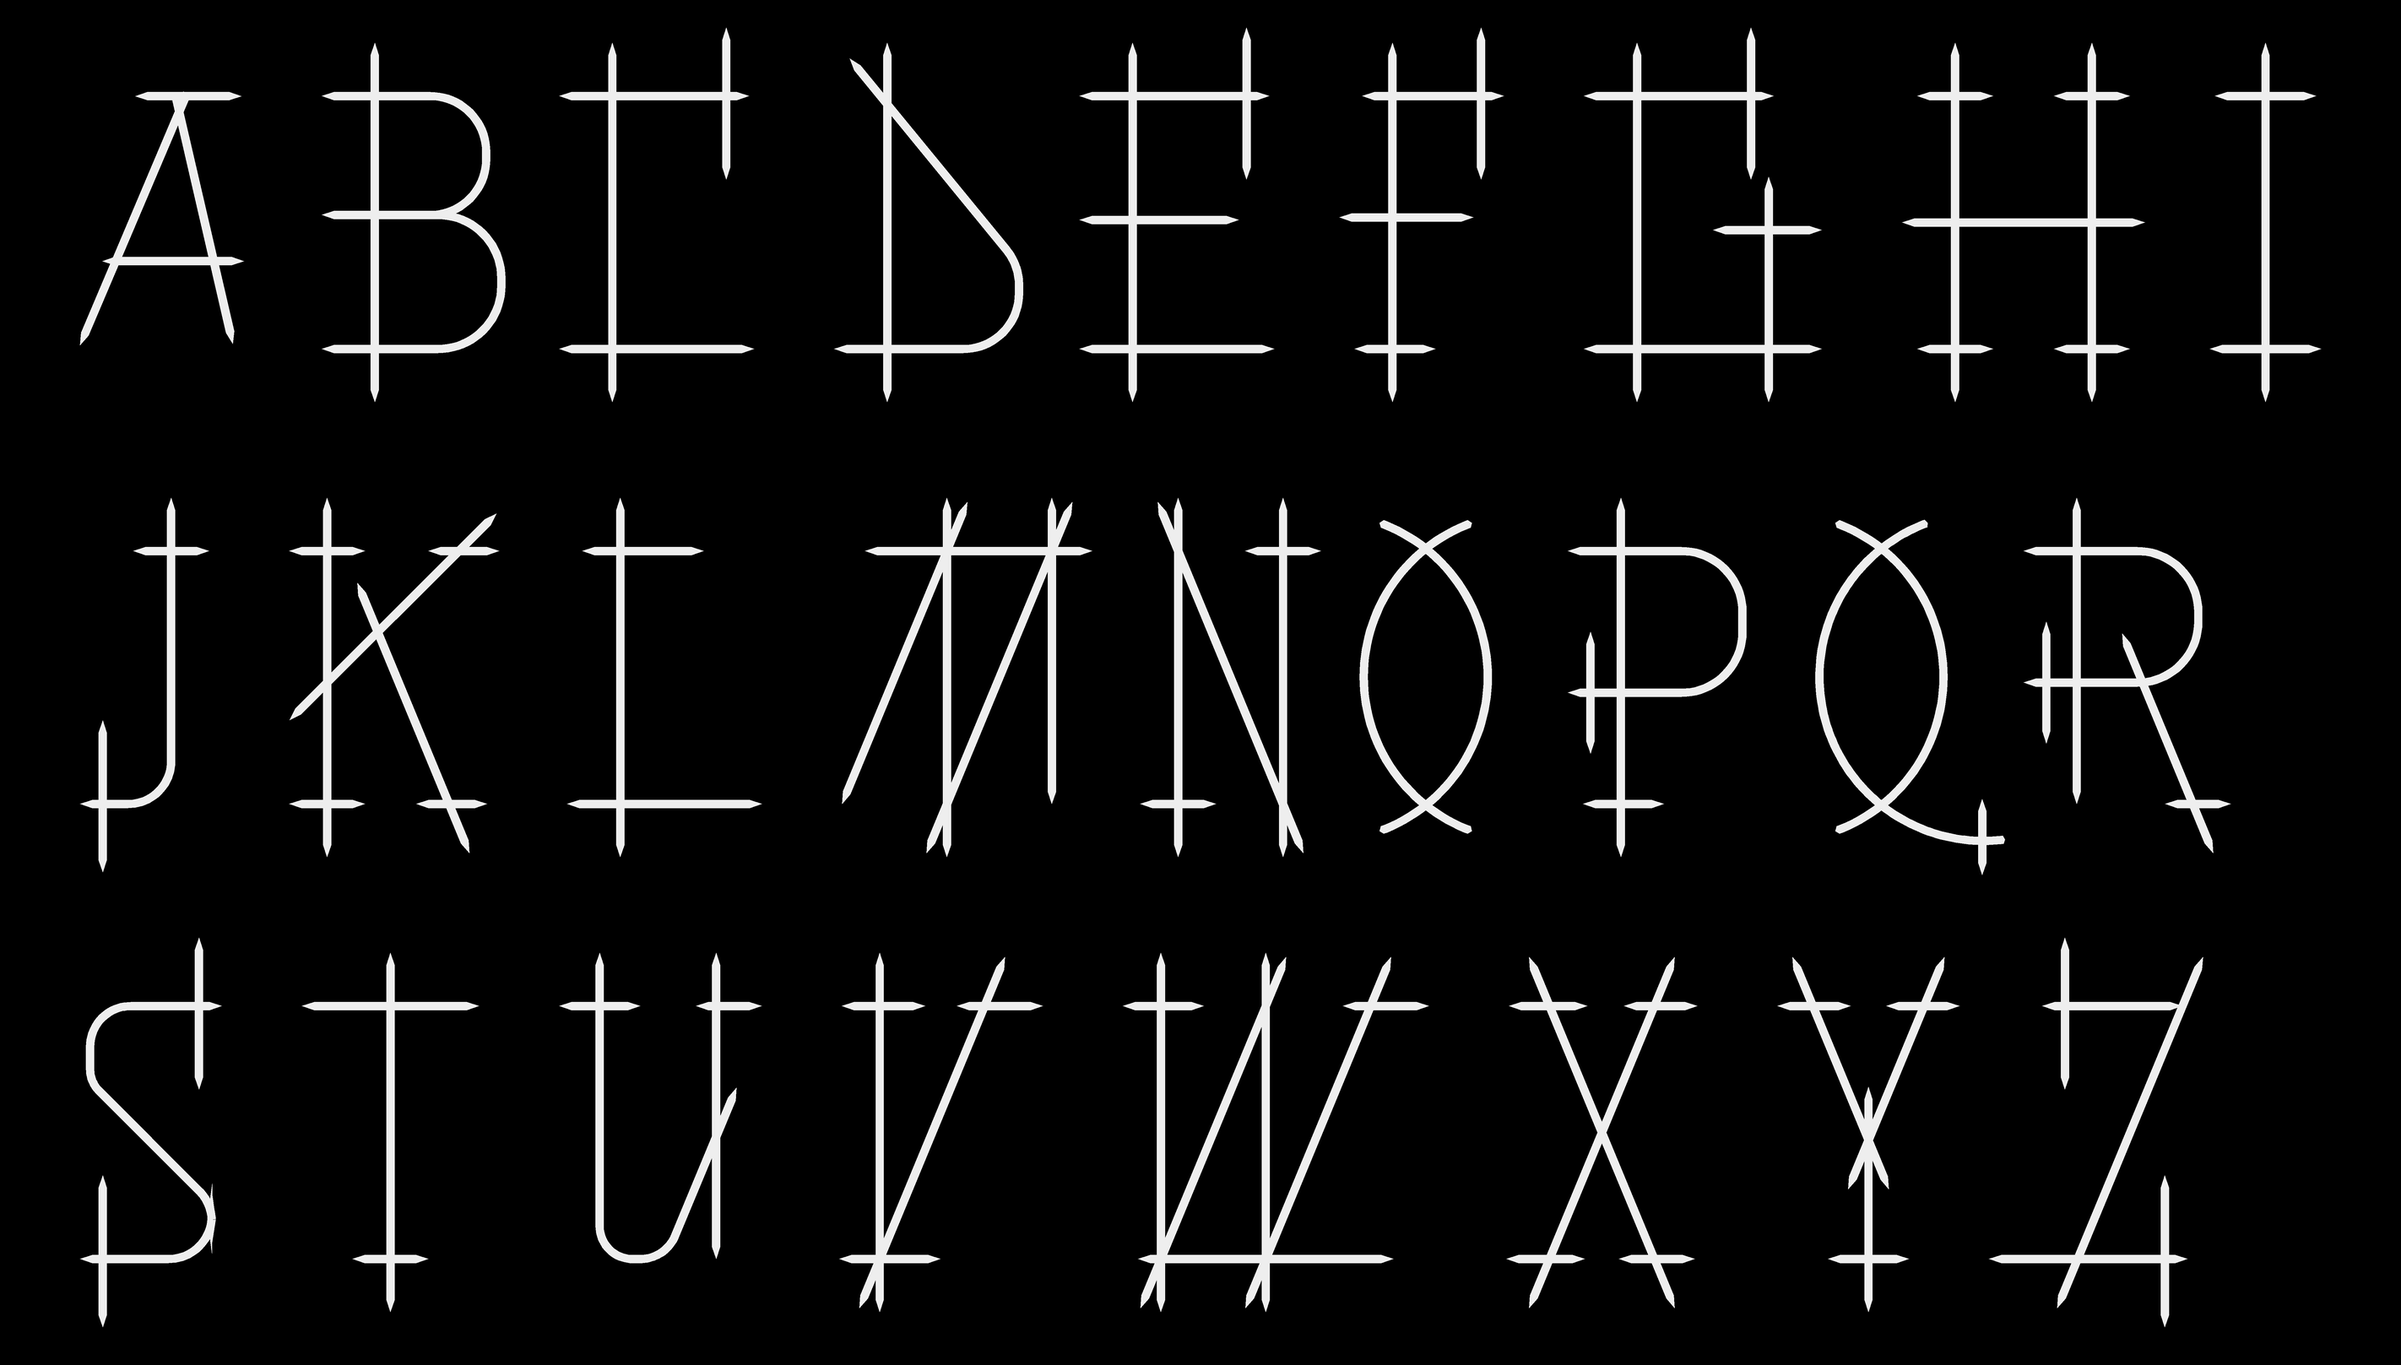
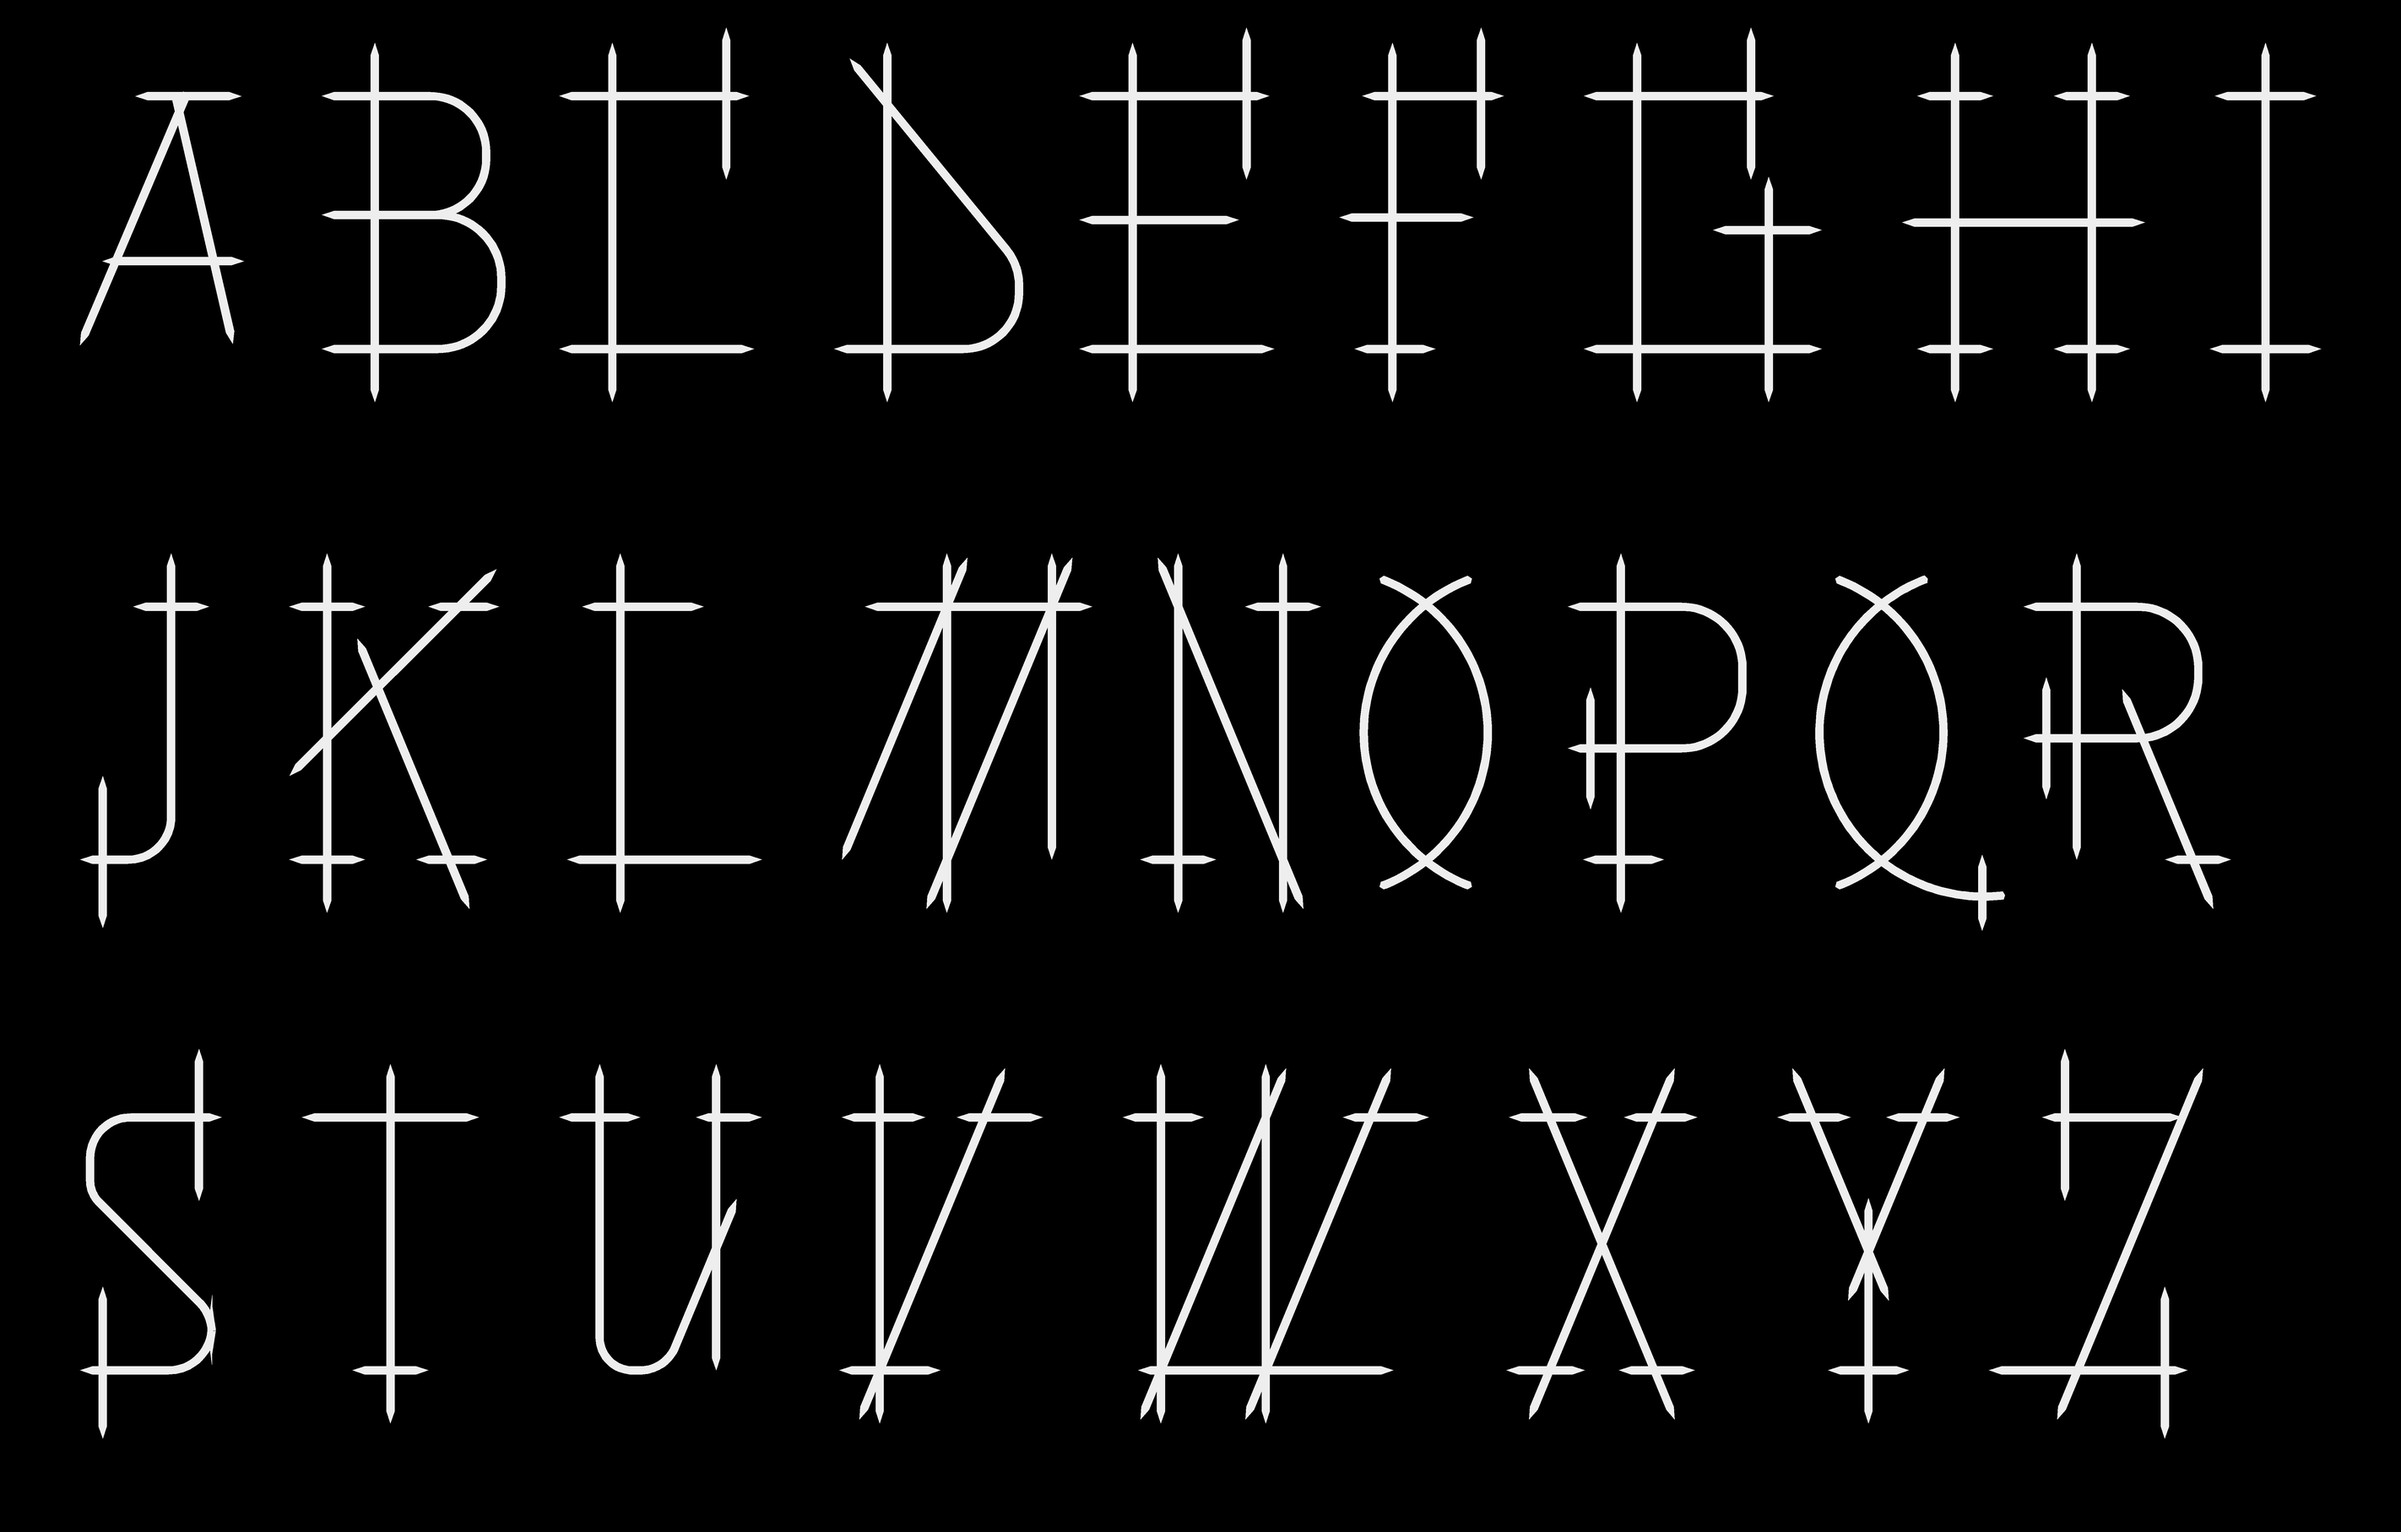
Fûstard 132 : minuscules a–z

diff --git a/fustard-132/fustard.py b/fustard-132/fustard.py
@@ -192,8 +192,99 @@ def build(ov=70.0):
               croix_bas(w67 + 160 - 30 * f, 0)]
     return G
 
+XH, ASC, DESC = 600.0, 1000.0, -380.0   # hauteur des minuscules, montantes, descendantes
+
+def build_lc(ov):
+    """Minuscules. ov : dépassement des croisements (en proportion de la hauteur des minuscules)."""
+    f = ov / 70.0
+    X, A, D = XH, ASC, DESC
+    def croix_haut(x, y):
+        return S((x, y + 90 * f), (x, y - 110 * f))
+    def croix_bas(x, y):
+        return S((x, y + 110 * f), (x, y - 90 * f))
+    def diag(x0, y0, x1, y1, a=True, b=True):
+        u = np.array([x1 - x0, y1 - y0], float); u /= np.linalg.norm(u)
+        p = np.array([x0, y0]) - (u * ov if a else 0)
+        q = np.array([x1, y1]) + (u * ov if b else 0)
+        return S(tuple(p), tuple(q))
+    def croix_point(x, y, s=70):     # le point du i et du j est une croix
+        return [S((x, y + s), (x, y - s)), S((x - s, y), (x + s, y))]
+    w = X / T67
+    L = {}
+    L['a'] = [S((360, X + ov), (360, -ov)),
+              S((40, X), (360 + ov, X)), croix_haut(40 + 30 * f, X),
+              S((360 + ov, 320), (0, 320, 150), (0, 0, 150), (360 + ov, 0))]
+    L['b'] = [S((0, A + ov), (0, -ov)), S((-150, A), (150, A)),
+              S((-ov, X), (420, X, 200), (420, 0, 200), (-ov, 0))]
+    L['c'] = [S((0, X + ov), (0, -ov)),
+              S((-ov, X), (400, X)), croix_haut(400 - 30 * f, X),
+              S((-ov, 0), (420, 0))]
+    L['d'] = [S((420, A + ov), (420, -ov)), S((270, A), (570, A)),
+              S((420 + ov, X), (0, X, 200), (0, 0, 200), (420 + ov, 0))]
+    # e : un seul trait, arrondi en haut, coin vif en bas à gauche, barre qui traverse à gauche
+    L['e'] = [S((-ov, 300), (420, 300), (420, X, 150), (0, X, 150), (0, 0), (440, 0)),
+              croix_bas(440 - 30 * f, 0)]
+    L['f'] = [S((120, A + ov), (120, -ov)),
+              S((120 - ov, A), (440, A)), croix_haut(440 - 30 * f, A),
+              S((-30, X), (320, X)),
+              S((-30, 0), (290, 0))]
+    L['g'] = [S((420, X + ov), (420, D, 150), (0, D)), croix_bas(30 * f, D),
+              S((420 + ov, X), (0, X, 200), (0, 0, 200), (420 + ov, 0))]
+    L['h'] = [S((0, A + ov), (0, 0)), S((-150, A), (150, A)),
+              S((-ov, X), (420, X, 200), (420, 0))]
+    L['i'] = [S((0, X + ov), (0, -ov)), S((-150, X), (150, X)), S((-150, 0), (150, 0))] + \
+             croix_point(0, X + ov + 160)
+    L['j'] = [S((300, X + ov), (300, D, 150), (0, D)), croix_bas(30 * f, D),
+              S((150, X), (450, X))] + croix_point(300, X + ov + 160)
+    xk = 150 + 400 / T67
+    L['k'] = [S((0, A + ov), (0, -ov)), S((-150, A), (150, A)), S((-150, 0), (150, 0)),
+              diag(0, 250, 350, X), S((230, X), (500, X)),
+              diag(150, 400, xk, 0), S((xk - 120, 0), (xk + 140, 0))]
+    L['l'] = [S((0, A + ov), (0, -ov)), S((-200, A), (80, A)), S((-ov, 0), (260, 0))]
+    L['m'] = [S((0, X + ov), (0, 0)),
+              S((-ov, X), (620, X, 150), (620, 0)),
+              S((310, X + ov), (310, 0))]
+    L['n'] = [S((0, X + ov), (0, 0)),
+              S((-ov, X), (420, X, 200), (420, 0))]
+    L['o'] = arrondi.ogive(cx=220.0, top=X + 5, bot=-5.0, w=190.0, over=ov)
+    L['p'] = [S((0, X + ov), (0, D - ov)), S((-150, D), (150, D)),
+              S((-ov, X), (420, X, 200), (420, 0, 200), (-ov, 0))]
+    L['q'] = [S((420, X + ov), (420, D - ov)), S((270, D), (570, D)),
+              S((420 + ov, X), (0, X, 200), (0, 0, 200), (420 + ov, 0))]
+    L['r'] = [S((0, X + ov), (0, -ov)), S((-150, 0), (150, 0)),
+              S((-ov, X), (380, X)), croix_haut(380 - 30 * f, X)]
+    L['s'] = [S((440, X), (30, X, 90), (30, 470, 80), (390, 110, 100), (390, 0, 60), (0, 0)),
+              croix_haut(440 - 30 * f, X), croix_bas(30 * f, 0)]
+    L['t'] = [S((150, 820), (150, 0, 120), (400, 0)), croix_haut(400 - 30 * f, 0),
+              S((-20, X), (380, X))]
+    xr = 440; yb = (xr - 300) * T67
+    L['u'] = [S((-60, X), (200, X)),
+              S((100, X + ov), (100, 0, 110), (300, 0, 120), (xr + ov * C67, yb + ov * S67)),
+              S((xr, X + ov), (xr, 0)), S((xr - 80, X), (xr + 140, X))]
+    L['v'] = [S((0, X + ov), (0, -ov)), diag(0, 0, w, X),
+              S((-120, X), (140, X)), S((w - 90, X), (w + 180, X)),
+              S((-130, 0), (190, 0))]
+    L['w'] = [S((0, X + ov), (0, -ov)), diag(0, 0, w, X),
+              S((w, X + ov), (w, -ov)), diag(w, 0, 2 * w, X),
+              S((-80, 0), (2 * w + 80, 0)),
+              S((-120, X), (140, X)), S((2 * w - 90, X), (2 * w + 180, X))]
+    L['x'] = [diag(0, X, w, 0), diag(0, 0, w, X),
+              S((-130, X), (120, X)), S((w - 100, X), (w + 140, X)),
+              S((-140, 0), (110, 0)), S((w - 110, 0), (w + 130, 0))]
+    L['y'] = [S((-60, X), (200, X)),
+              S((100, X + ov), (100, 0, 110), (300, 0, 120), (xr + ov * C67, yb + ov * S67)),
+              S((xr, X + ov), (xr, D, 150), (60, D)), croix_bas(60 + 30 * f, D),
+              S((xr - 80, X), (xr + 140, X))]
+    L['z'] = [S((0, X), (w + 110, X)),
+              diag(w + 110, X, 110, 0),
+              S((-ov, 0), (w + 130, 0)),
+              croix_haut(30 * f, X), croix_bas(w + 130 - 30 * f, 0)]
+    return L
+
 OV_CHOISI = 210.0   # niveau 2 (croisements x3), choisi
+OV_MIN = OV_CHOISI * XH / 1000.0   # même exagération, en proportion des minuscules
 G = build(OV_CHOISI)
+G.update(build_lc(OV_MIN))
 GP = {ch: [s['p'] for s in v] for ch, v in G.items()}
 
 def render(word, out, k=0.3, ss=3, gap=284, G=G):
@@ -206,7 +297,7 @@ def render(word, out, k=0.3, ss=3, gap=284, G=G):
     finally:
         essai.G, essai.cr, essai.GAP = G0, cr0, gap0
     K = k * ss
-    top, bot = 1380, -420
+    top, bot = 1380, -640
     W = int((end + 600) * K); Hh = int((top - bot) * K)
     img = Image.new('L', (W, Hh), 0)
     d = ImageDraw.Draw(img)
@@ -236,5 +327,8 @@ def planche(out, lignes=('ABCDEFGHI', 'JKLMNOPQR', 'STUVWXYZ'), k=0.3, G=G):
 if __name__ == '__main__':
     if len(sys.argv) > 1 and sys.argv[1] == 'alphabet':
         planche(sys.argv[2] if len(sys.argv) > 2 else 'alphabet.png')
+    elif len(sys.argv) > 1 and sys.argv[1] == 'minuscules':
+        planche(sys.argv[2] if len(sys.argv) > 2 else 'minuscules.png',
+                lignes=('abcdefghi', 'jklmnopqr', 'stuvwxyz', 'lafleurstudio'))
     else:
         render(sys.argv[1] if len(sys.argv) > 1 else 'LAFLEURSTUDIO', sys.argv[2] if len(sys.argv) > 2 else 'fustard-132.png')

diff --git a/fustard-132/README.md b/fustard-132/README.md
@@ -12,6 +12,8 @@ Version techno gothique de Jalousia (dossier `jalousia/`). Travail en cours, pas
 - **A** : celui de la version sharp, gardé tel quel.
 - **Q** : l'arc de gauche du O continue en longue queue courbe, barrée d'une petite croix.
 - **Trait** : 32 d'épaisseur.
+- **Minuscules** : hauteur 600, montantes 1000, descendantes −380 ; croisements à la même exagération, en proportion (126).
+  Point du i et du j en croix, queues de g, j, y sur la croix du J, e arrondi en haut avec un coin vif en bas à gauche.
 
 ## Étapes
 
@@ -23,6 +25,7 @@ Version techno gothique de Jalousia (dossier `jalousia/`). Travail en cours, pas
 | 4. Techno gothique : géométrie stricte, croisements | `fustard.py` | `fustard-132.png` |
 | Choix de la longueur des croisements (avant, ×2, ×3 retenu) | | `croisements.png` |
 | 5. Alphabet A–Z (V, X, M, C d'après les dessins) | `fustard.py` | `alphabet.png` |
+| 6. Minuscules a–z | `fustard.py` | `minuscules.png` |
 
 ## Refaire les images
 
@@ -32,6 +35,7 @@ python3 droit.py LAFLEURSTUDIO sharp.png
 python3 arrondi.py LAFLEURSTUDIO arrondis.png
 python3 fustard.py LAFLEURSTUDIO fustard-132.png
 python3 fustard.py alphabet alphabet.png
+python3 fustard.py minuscules minuscules.png
 ```
 
 Les scripts lisent les lettres de départ dans `../jalousia/essai.py`.
